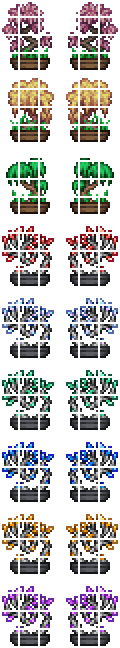
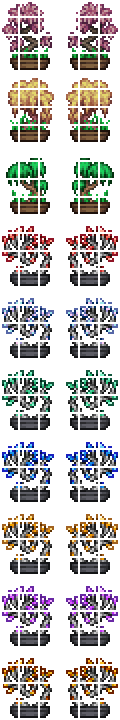
Amber Bonsai

diff --git a/Content/Forest/Misc/Bonsai/BonsaiTreeItems.cs b/Content/Forest/Misc/Bonsai/BonsaiTreeItems.cs
@@ -57,3 +57,9 @@ public class AmethystBonsaiItem : SakuraBonsaiItem
 	public override int Style => 8;
 	public override void AddRecipes() => CreateRecipe().AddIngredient(ModContent.ItemType<BonsaiPot>()).AddIngredient(ItemID.GemTreeAmethystSeed).Register();
 }
+
+public class AmberBonsaiItem : SakuraBonsaiItem
+{
+	public override int Style => 9;
+	public override void AddRecipes() => CreateRecipe().AddIngredient(ModContent.ItemType<BonsaiPot>()).AddIngredient(ItemID.GemTreeAmberSeed).Register();
+}
